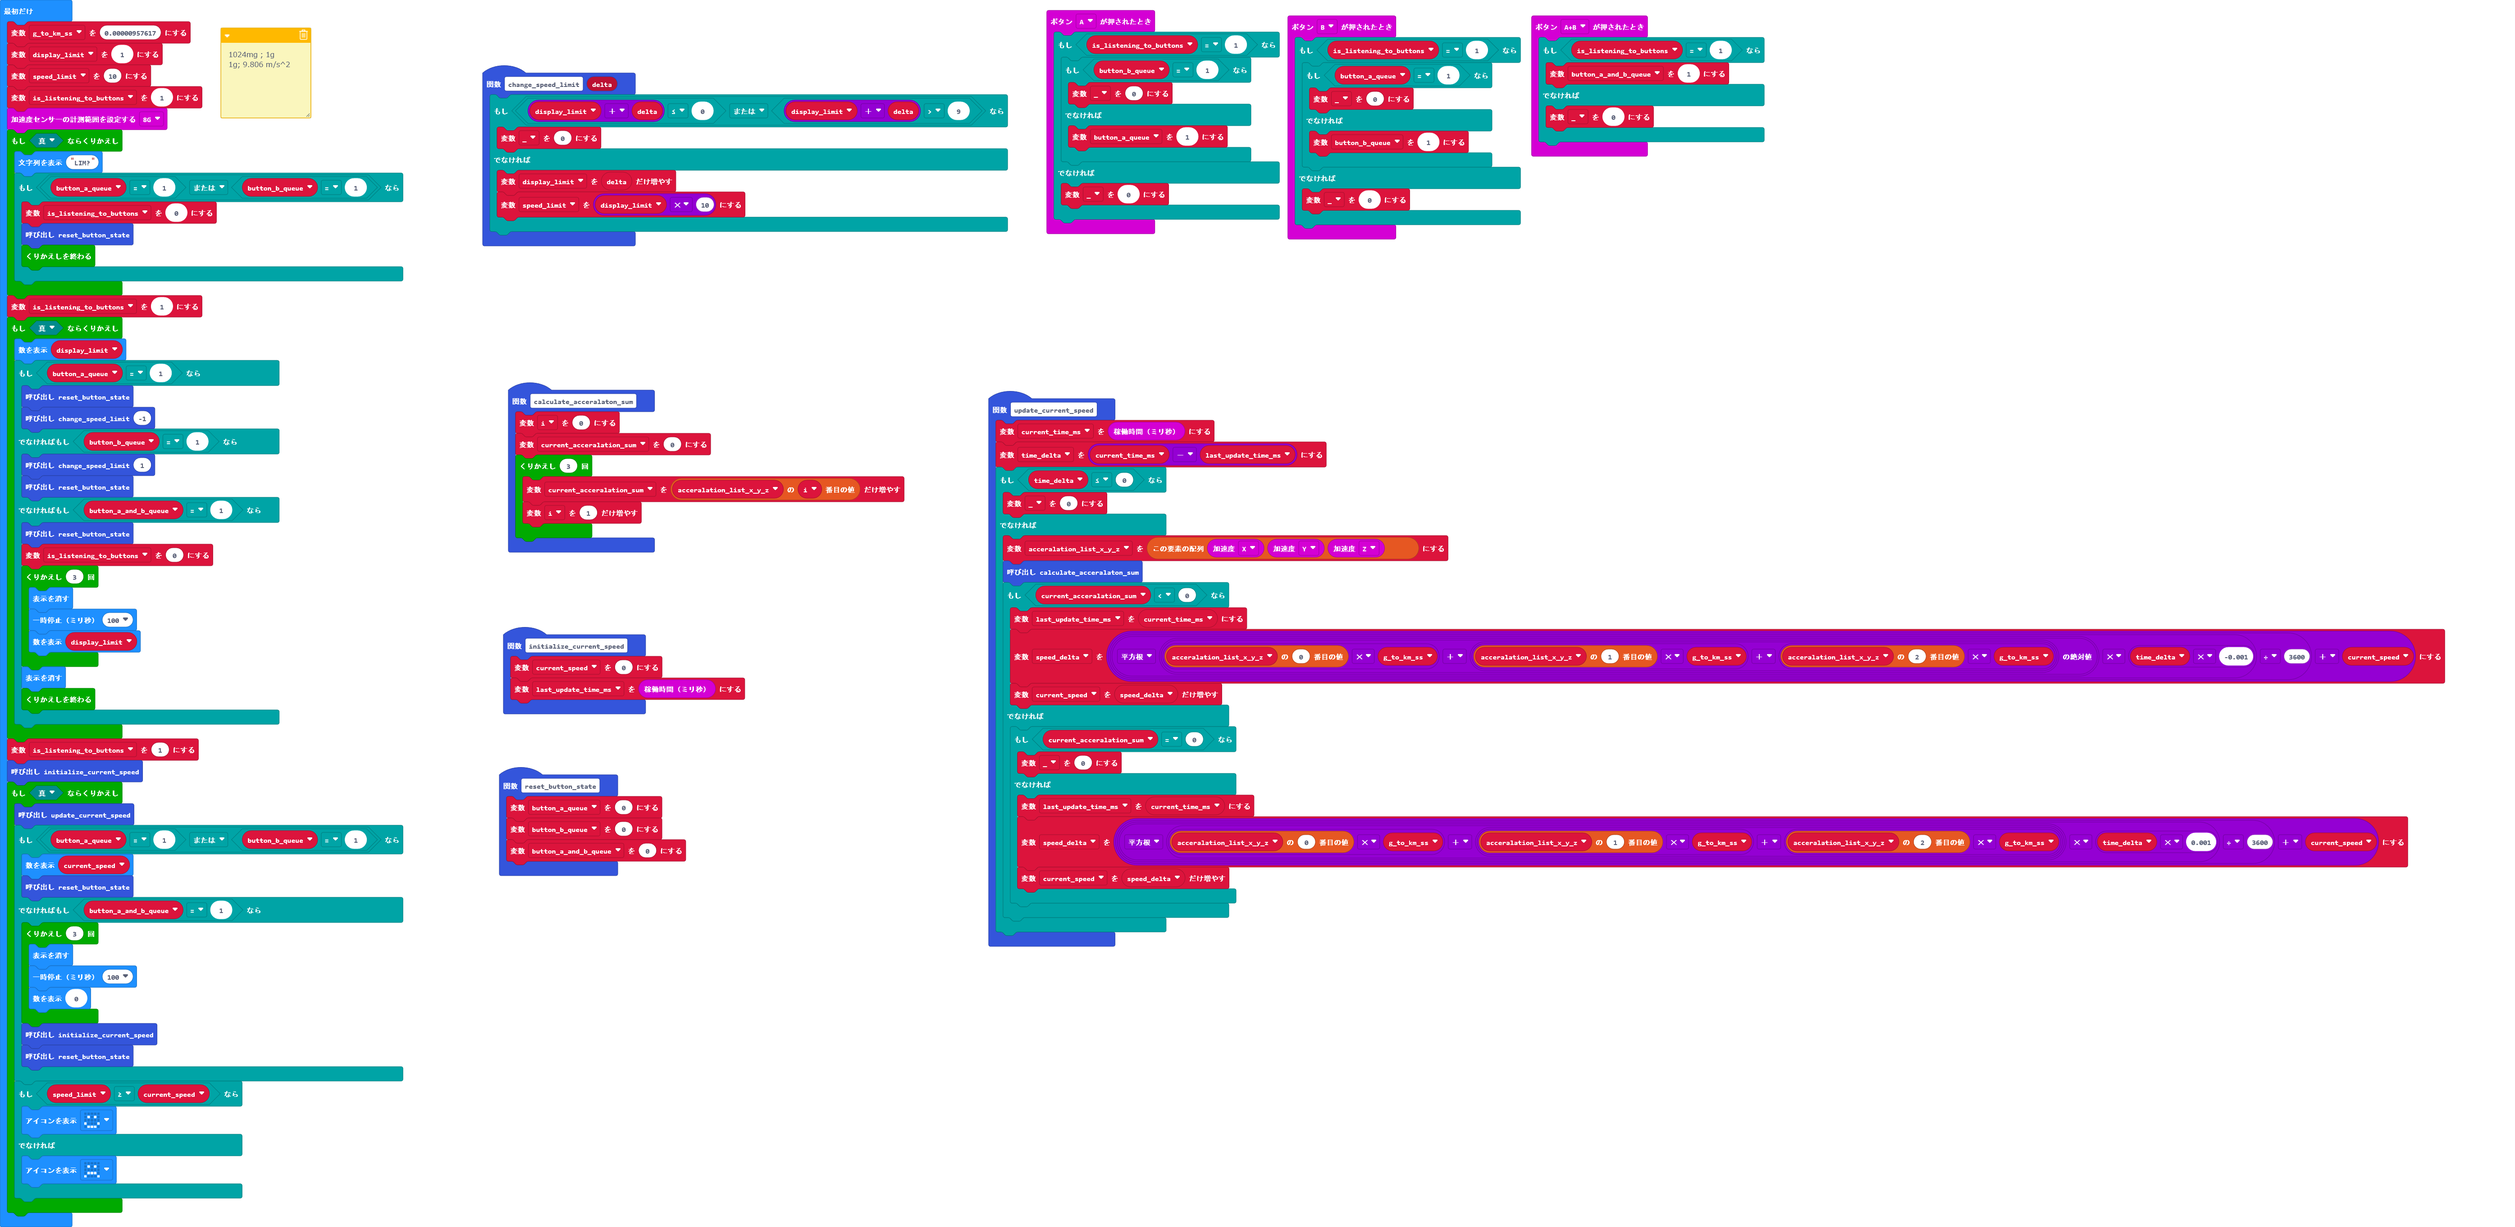
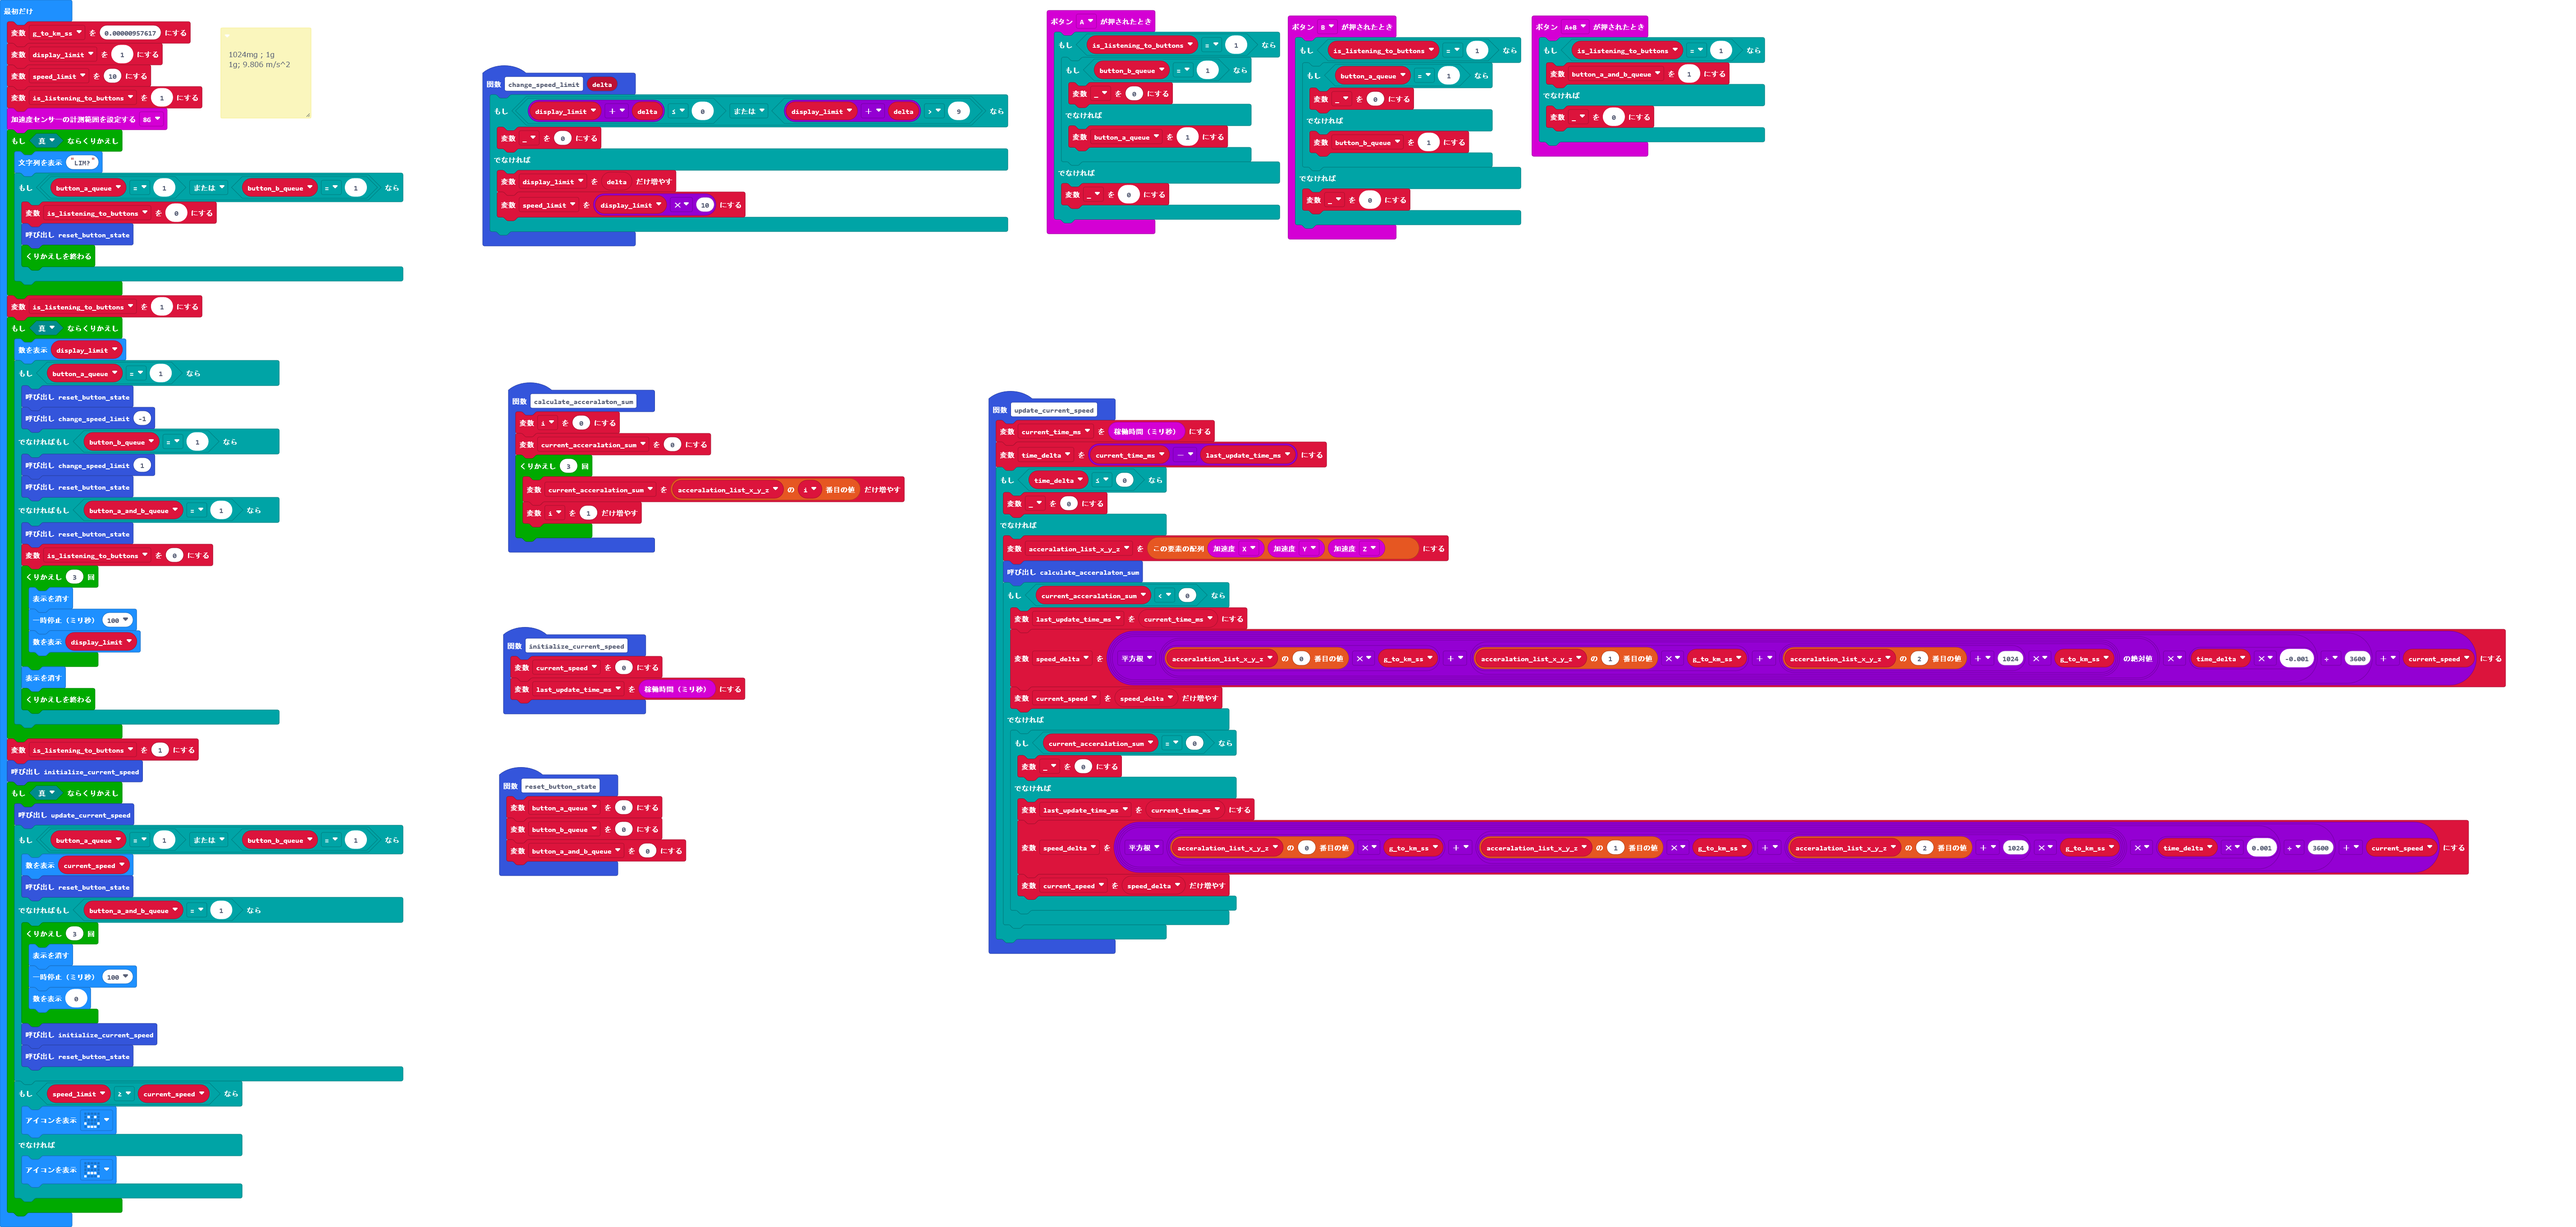
一応デバッグ終了

diff --git a/main.ts b/main.ts
@@ -57,14 +57,14 @@ function update_current_speed () {
         calculate_acceralaton_sum()
         if (current_acceralation_sum < 0) {
             last_update_time_ms = current_time_ms
-            speed_delta = Math.sqrt(Math.abs(acceralation_list_x_y_z[0] * g_to_km_ss + (acceralation_list_x_y_z[1] * g_to_km_ss + acceralation_list_x_y_z[2] * g_to_km_ss))) * (time_delta * -0.001) / 3600 + current_speed
+            speed_delta = Math.sqrt(Math.abs(acceralation_list_x_y_z[0] * g_to_km_ss + (acceralation_list_x_y_z[1] * g_to_km_ss + (acceralation_list_x_y_z[2] + 1024) * g_to_km_ss))) * (time_delta * -0.001) / 3600 + current_speed
             current_speed += speed_delta
         } else {
             if (current_acceralation_sum == 0) {
                 _ = 0
             } else {
                 last_update_time_ms = current_time_ms
-                speed_delta = Math.sqrt(acceralation_list_x_y_z[0] * g_to_km_ss + (acceralation_list_x_y_z[1] * g_to_km_ss + acceralation_list_x_y_z[2] * g_to_km_ss)) * (time_delta * 0.001) / 3600 + current_speed
+                speed_delta = Math.sqrt(acceralation_list_x_y_z[0] * g_to_km_ss + (acceralation_list_x_y_z[1] * g_to_km_ss + (acceralation_list_x_y_z[2] + 1024) * g_to_km_ss)) * (time_delta * 0.001) / 3600 + current_speed
                 current_speed += speed_delta
             }
         }
